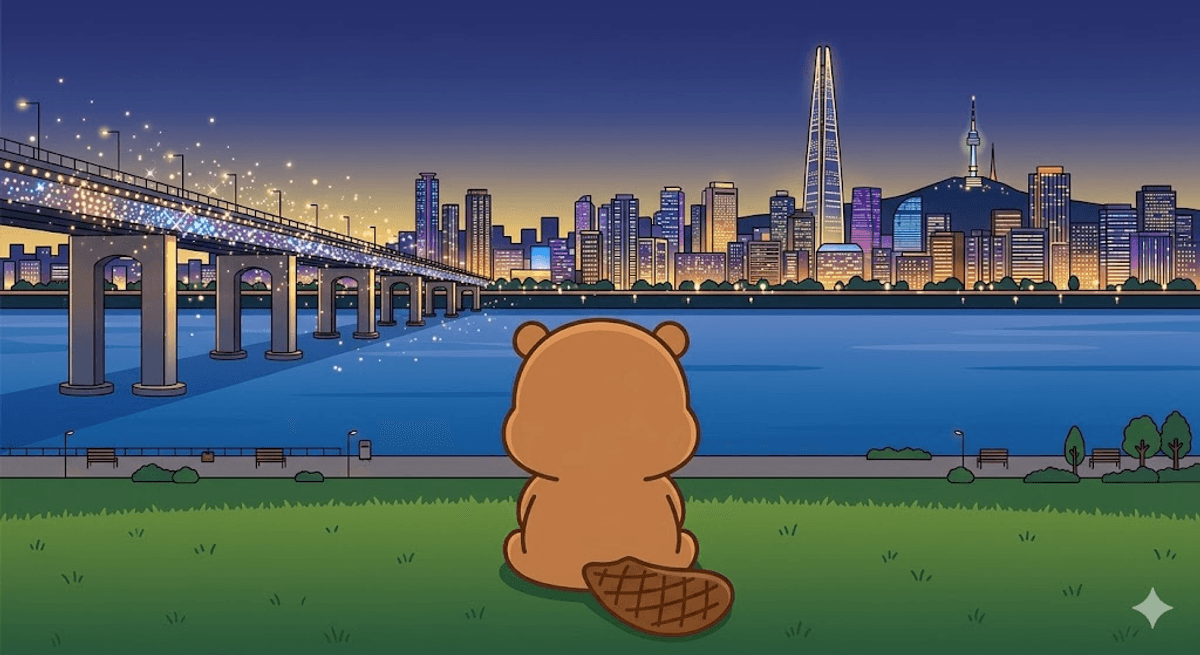
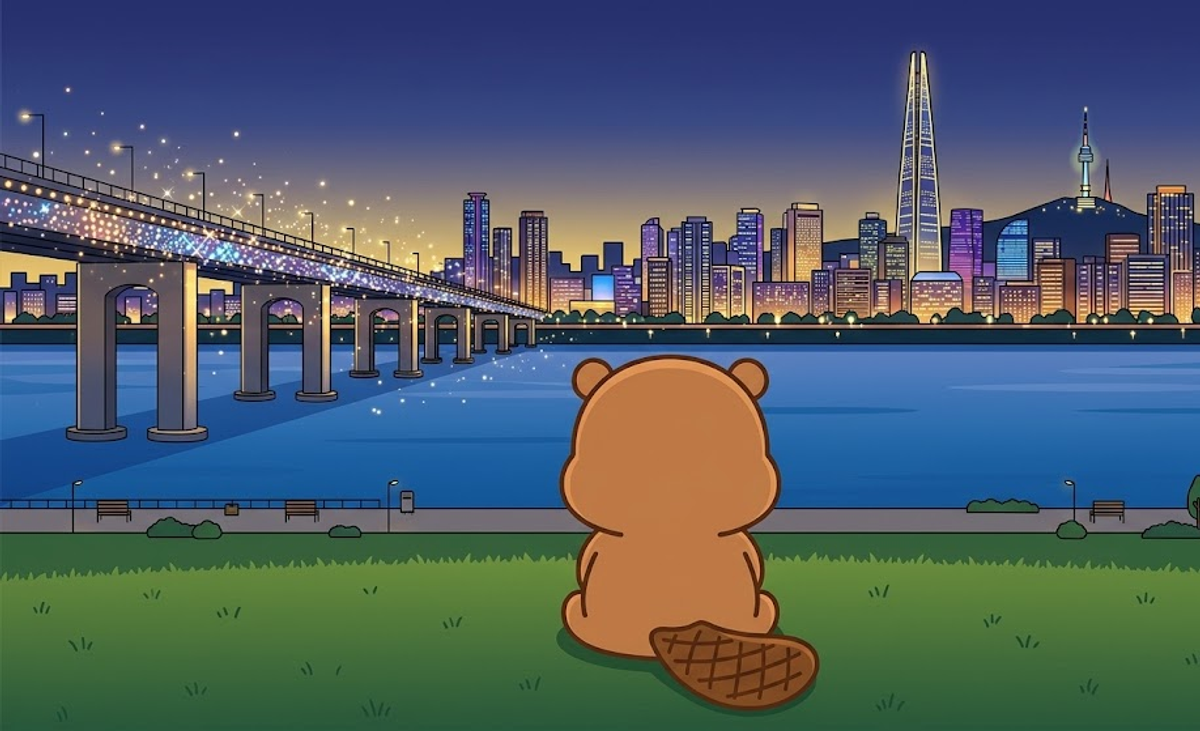
fix: 메인 한강 히어로 — 워터마크 제거 + 주변색 정리
- 우하단 제미나이 ✦ 워터마크: 우측 크롭으로 제거(비지·대부분 스카이라인 보존)
- 이미지 주변 색 충돌: 따뜻한 라디얼 워시 제거 → 균일한 오트밀 배경 위 링+그림자 카드로 정돈

diff --git a/src/components/LandingHero.tsx b/src/components/LandingHero.tsx
@@ -33,24 +33,14 @@ function MiniBadge({ children }: { children: React.ReactNode }) {
 export function LandingHero({ onStart }: { onStart: () => void }) {
   return (
     <section className="relative overflow-hidden px-1 pt-6 pb-4 text-center sm:pt-10">
-      {/* 따뜻한 라디얼 워시 배경 */}
-      <div
-        aria-hidden="true"
-        className="pointer-events-none absolute inset-x-0 top-0 -z-10 h-[420px]"
-        style={{
-          background:
-            "radial-gradient(58% 64% at 50% 10%, rgba(254,118,68,0.22) 0%, rgba(224,162,58,0.16) 38%, rgba(245,236,217,0) 72%)",
-        }}
-      />
-
       {/* 브랜드 히어로 — 한강에서 서울을 바라보며 '비집고' 들어갈 집을 그리는 비지 */}
-      <div className="biji-pop-in -mx-1 mb-4 overflow-hidden rounded-3xl shadow-sm sm:mx-auto sm:max-w-xl">
+      <div className="biji-pop-in mx-auto mb-5 max-w-xl overflow-hidden rounded-3xl shadow-md ring-1 ring-black/5">
         {/* eslint-disable-next-line @next/next/no-img-element */}
         <img
           src="/biji/biji-hangang.png"
           alt="한강에서 서울 도심을 바라보는 비지 — 비집고 들어갈 집을 그리며"
           width={1200}
-          height={655}
+          height={731}
           className="block w-full"
           draggable={false}
         />
